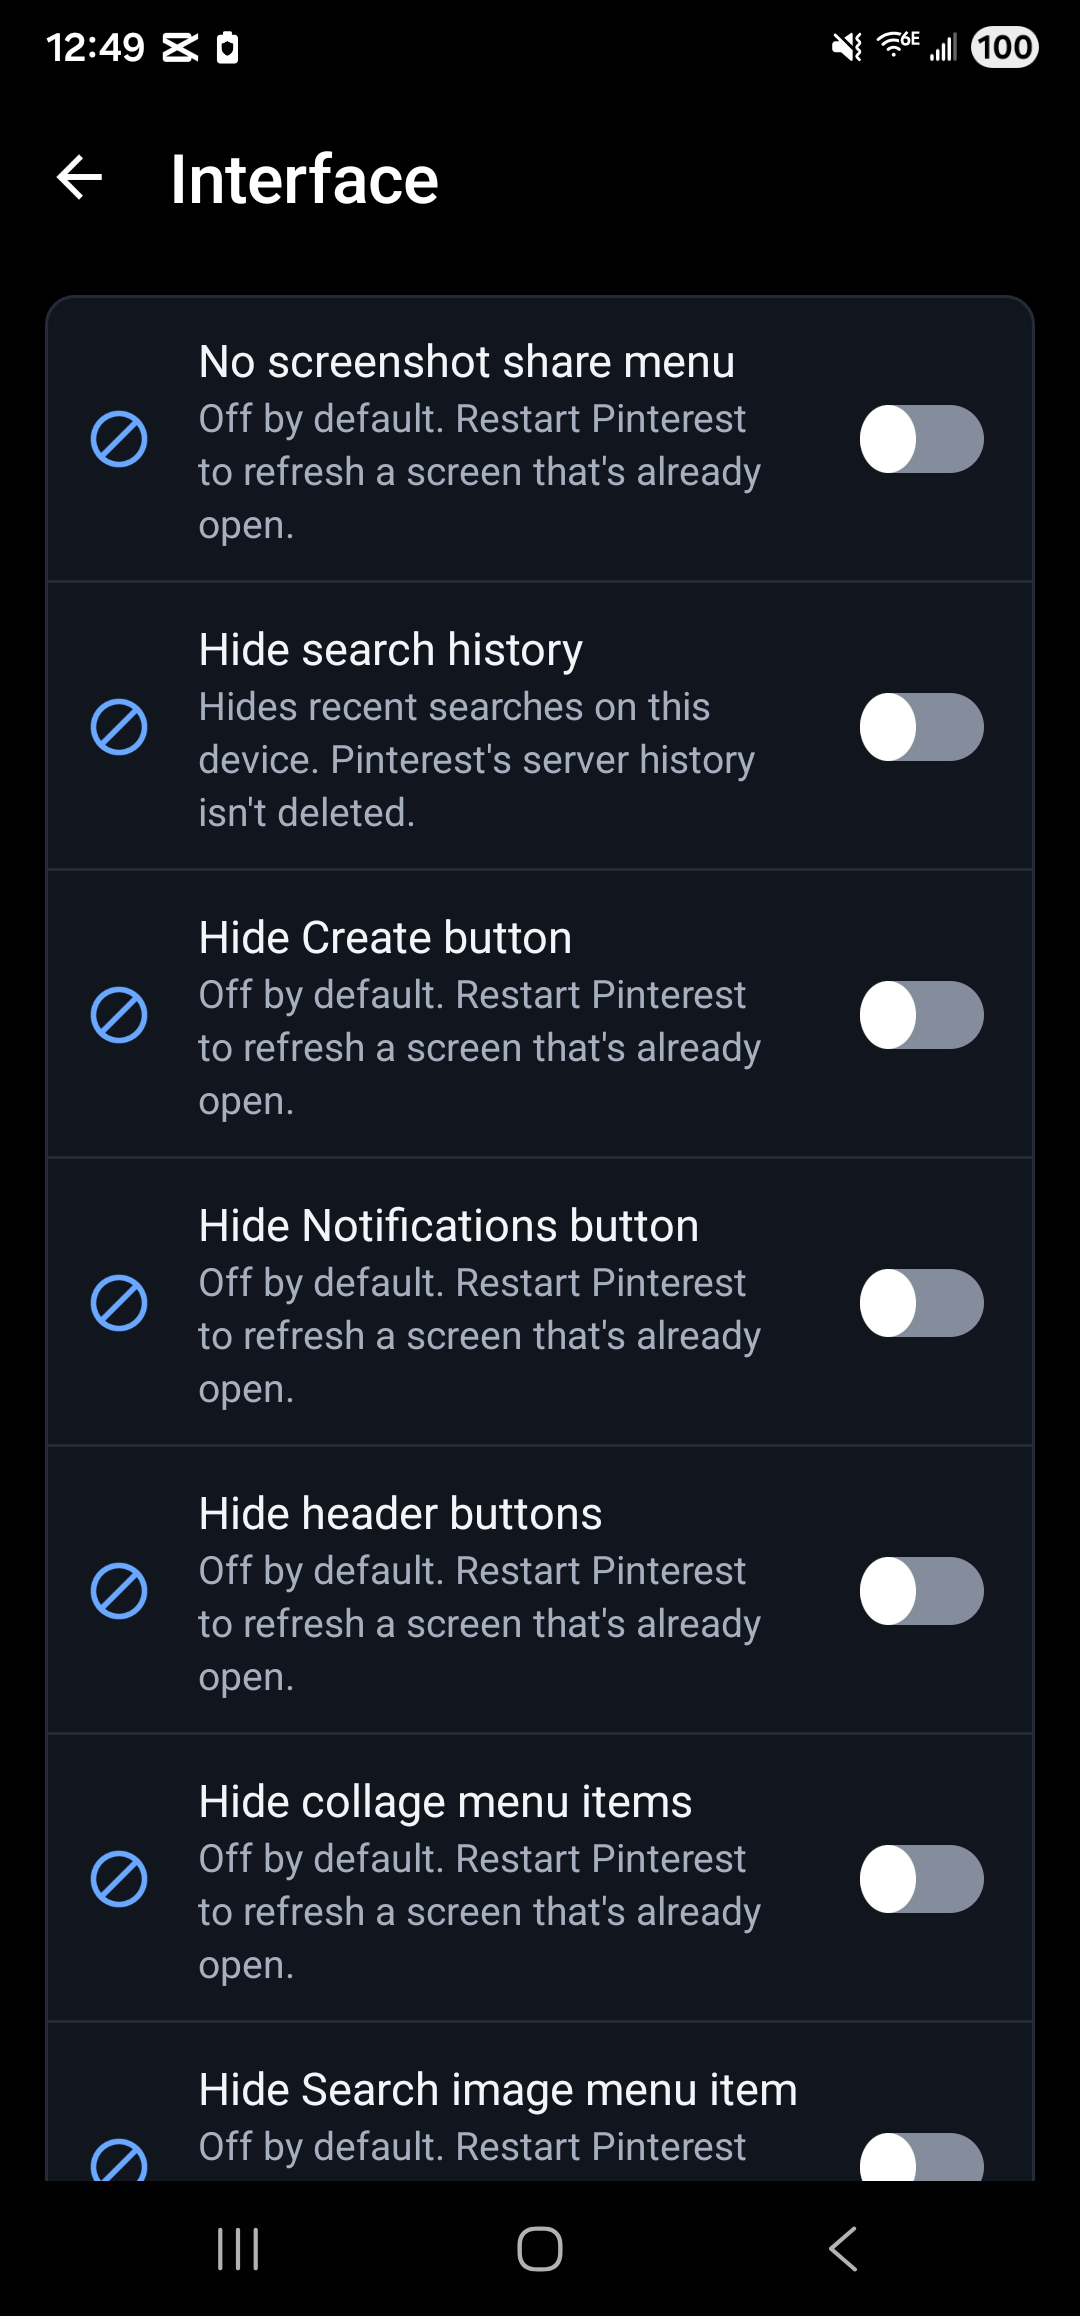
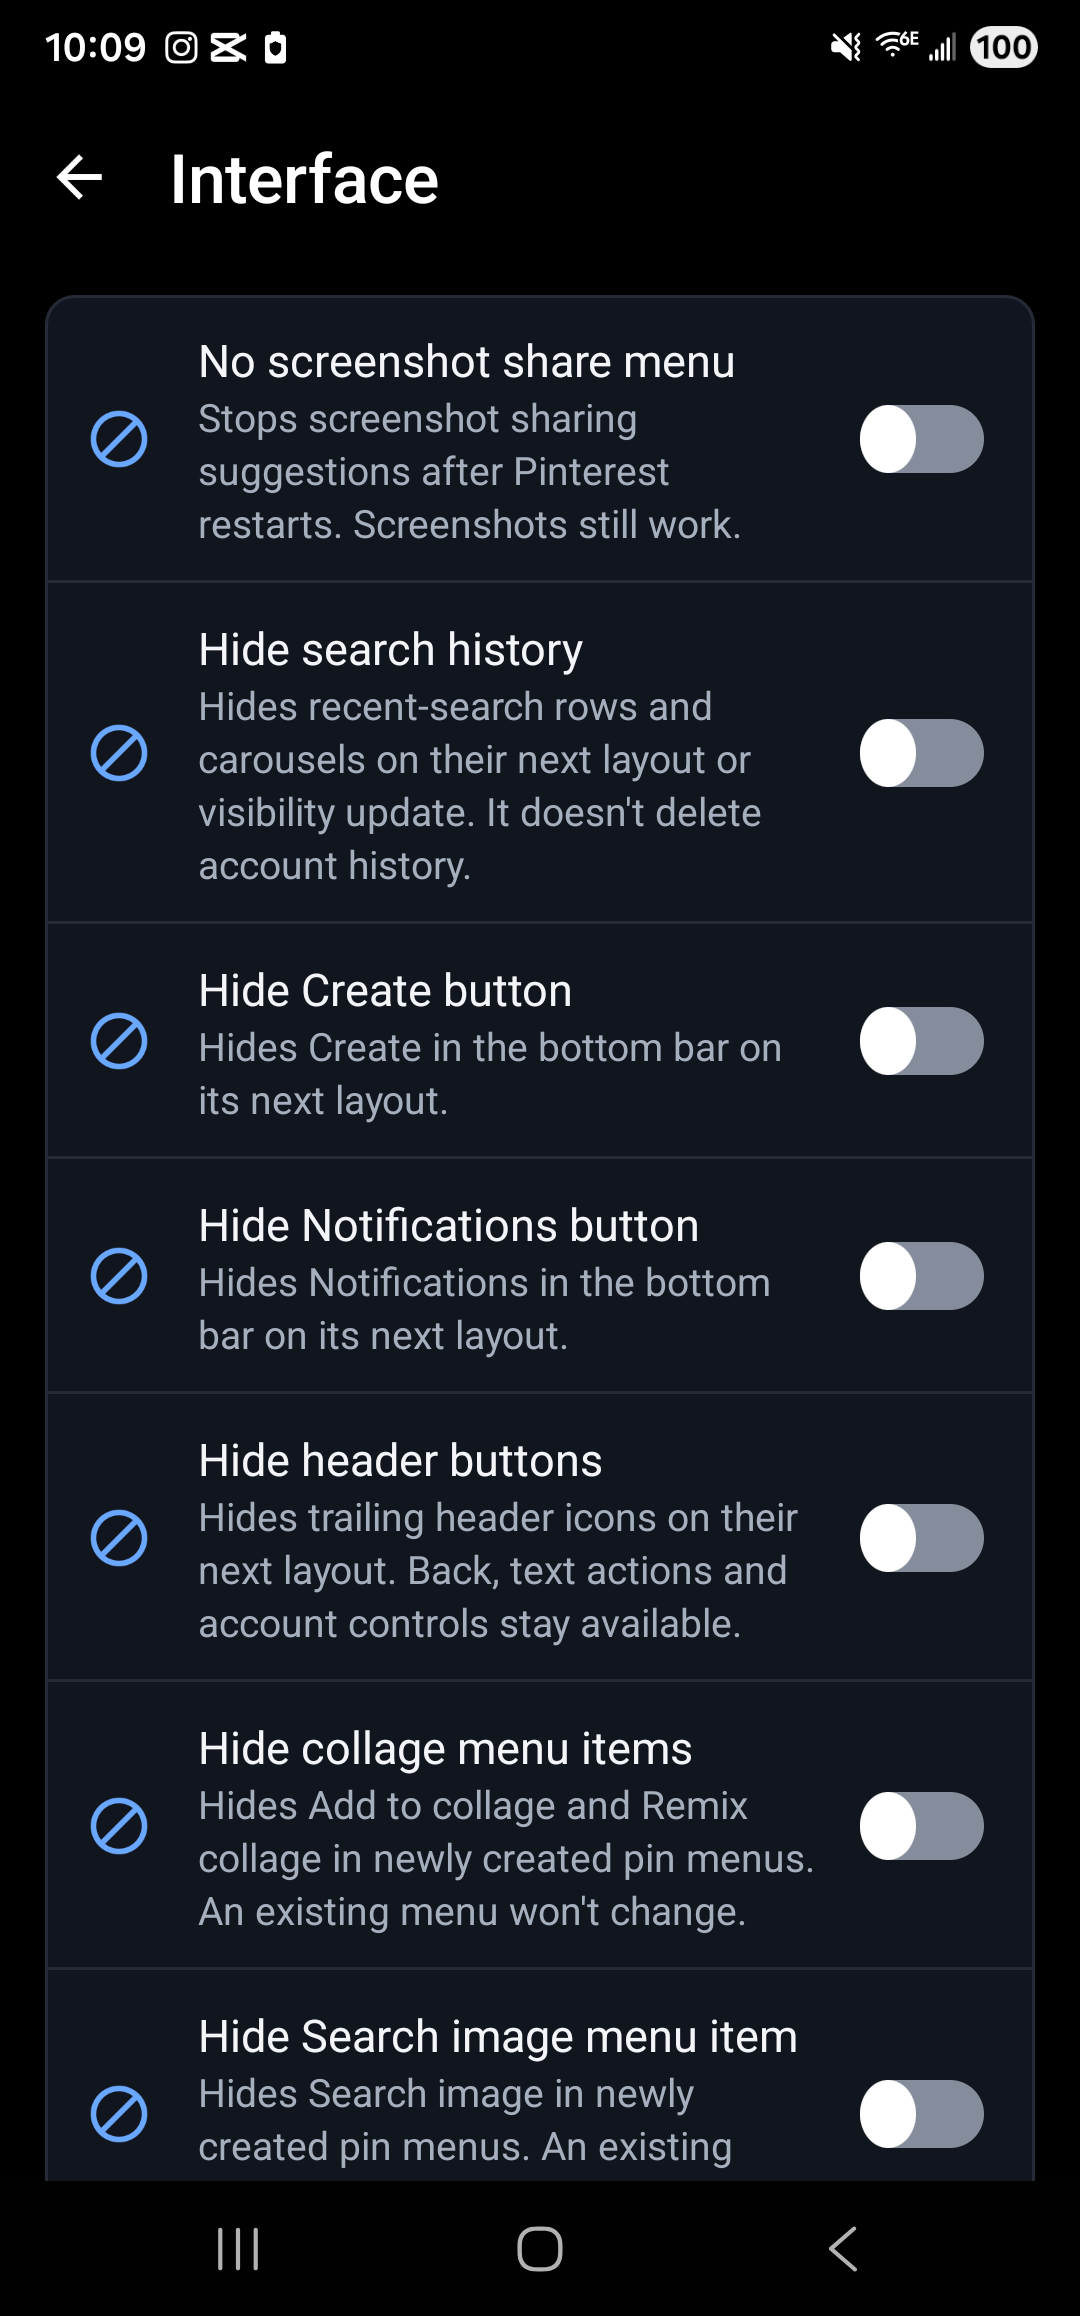
docs: refresh the interface settings screenshot

diff --git a/CHANGELOG.md b/CHANGELOG.md
@@ -17,7 +17,7 @@ Nothing has been released yet. This is the work toward 0.0.2.
 
 * **Diagnostic exports:** Summaries and successful-save feedback now show the real destination on Android 9 and newer versions. Unavailable storage keeps Copy quick report available. Redaction and export bounds remain enforced.
 
-* **Settings search:** Interface summaries describe their affected controls and refresh boundaries. Reviewed search aliases cover common names in every supported language, while features absent from the installed patch set stay hidden.
+* **Settings search:** Interface summaries describe their affected controls and refresh boundaries. Reviewed search aliases cover common names in every supported language, while features absent from the installed patch set stay hidden. The interface screenshot now shows the updated summaries.
 
 * **Setup guide:** About now has dismissible guidance on patch choices, settings backup and signing keys. It reuses Supported links and offers public password and data-export help.
 
